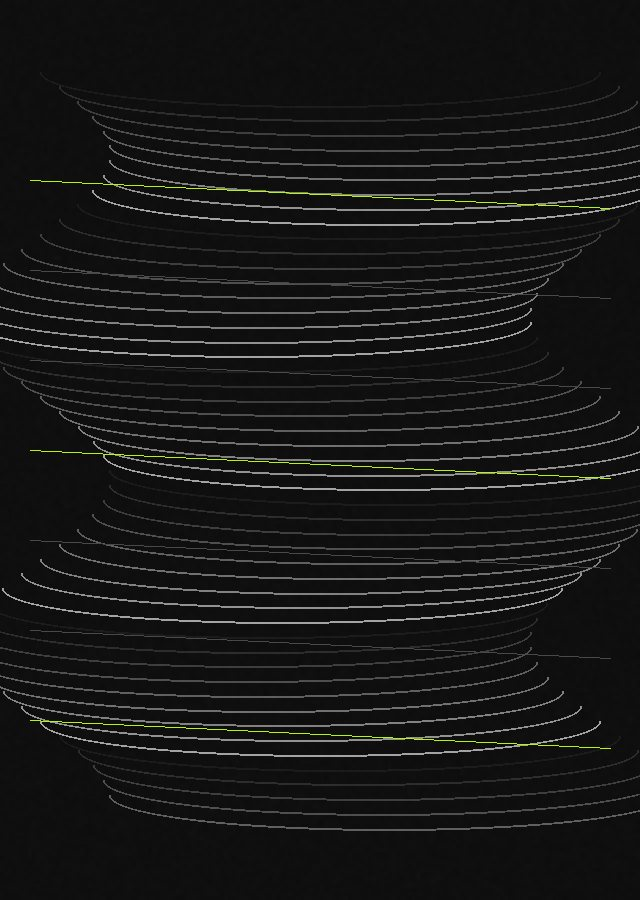
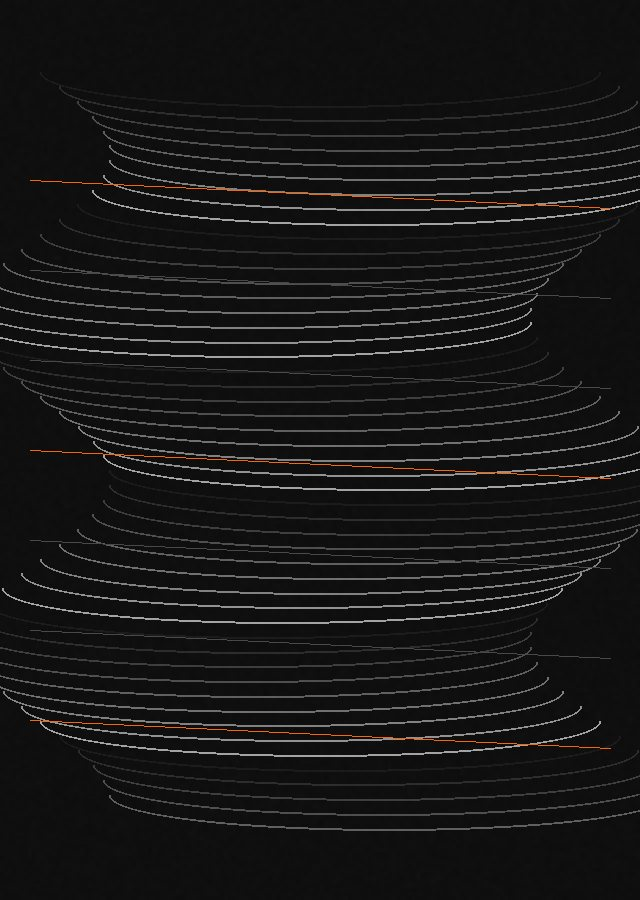
Retheme accent to #FF6600, Nirbhay Verma signature, Pages deploy
- Replace neon-lime accents and generated graphics with #FF6600
- Update portrait signature artwork to Nirbhay Verma
- Add GitHub Actions workflow to publish on every push to main

diff --git a/css/style.css b/css/style.css
@@ -11,8 +11,8 @@
   --text: #f4f4f0;
   --muted: #8c8c8c;
   --border: rgba(255, 255, 255, 0.12);
-  --accent: #b8ff00;
-  --accent-dark: #6f9900;
+  --accent: #FF6600;
+  --accent-dark: #CC5200;
 
   --font: "Space Grotesk", system-ui, sans-serif;
   --max: 1440px;
@@ -329,7 +329,7 @@ body.has-custom-cursor .cursor {
 
 .nav__dot-btn:hover {
   border-color: var(--accent);
-  box-shadow: 0 0 16px rgba(184, 255, 0, 0.15);
+  box-shadow: 0 0 16px rgba(255, 102, 0, 0.15);
 }
 
 .nav__dot-btn:hover .nav__dot-btn-inner,
@@ -443,8 +443,8 @@ body.has-custom-cursor .cursor {
 }
 
 .showreel-btn:hover {
-  background: rgba(184, 255, 0, 0.08);
-  box-shadow: 0 0 24px rgba(184, 255, 0, 0.18);
+  background: rgba(255, 102, 0, 0.08);
+  box-shadow: 0 0 24px rgba(255, 102, 0, 0.18);
 }
 
 .showreel-btn__time {
@@ -485,7 +485,7 @@ body.has-custom-cursor .cursor {
   position: absolute;
   inset: 0;
   background:
-    radial-gradient(circle at 62% 40%, rgba(184, 255, 0, 0.18), transparent 42%);
+    radial-gradient(circle at 62% 40%, rgba(255, 102, 0, 0.18), transparent 42%);
   pointer-events: none;
   mix-blend-mode: screen;
   animation: glowPulse 6s ease-in-out infinite alternate;
@@ -500,12 +500,12 @@ body.has-custom-cursor .cursor {
 .hero-visual__portal {
   width: 18%;
   aspect-ratio: 1;
-  border: 1px solid rgba(184, 255, 0, 0.35);
+  border: 1px solid rgba(255, 102, 0, 0.35);
   border-radius: 50%;
   top: 36%;
   left: 58%;
   transform: translate(-50%, -50%);
-  box-shadow: 0 0 40px rgba(184, 255, 0, 0.15);
+  box-shadow: 0 0 40px rgba(255, 102, 0, 0.15);
   animation: portalSpin 24s linear infinite;
 }
 
@@ -794,7 +794,7 @@ body.has-custom-cursor .cursor {
 .btn-outline:hover {
   color: var(--accent);
   border-color: var(--accent);
-  background: rgba(184, 255, 0, 0.04);
+  background: rgba(255, 102, 0, 0.04);
 }
 
 .btn-outline:hover .arrow {
@@ -860,7 +860,7 @@ body.has-custom-cursor .cursor {
 .timeline__item--active .timeline__marker {
   background: var(--accent);
   border-color: var(--accent);
-  box-shadow: 0 0 0 4px rgba(184, 255, 0, 0.15), 0 0 18px rgba(184, 255, 0, 0.35);
+  box-shadow: 0 0 0 4px rgba(255, 102, 0, 0.15), 0 0 18px rgba(255, 102, 0, 0.35);
 }
 
 .timeline__year {

diff --git a/index.html b/index.html
@@ -243,10 +243,9 @@
               <img
                 class="portrait__signature"
                 src="assets/images/signature.png"
-                alt=""
-                aria-hidden="true"
-                width="560"
-                height="180"
+                alt="Signature of Nirbhay Verma"
+                width="720"
+                height="200"
                 loading="lazy"
                 decoding="async"
               >
@@ -342,7 +341,7 @@
               data-cursor="image"
               aria-label="Open Dark Current"
             >
-              <img src="assets/images/gallery-04.jpg" alt="Abstract flowing dark shapes with lime accents" width="620" height="880" loading="lazy" decoding="async">
+              <img src="assets/images/gallery-04.jpg" alt="Abstract flowing dark shapes with orange accents" width="620" height="880" loading="lazy" decoding="async">
               <span class="gallery__caption">Dark Current</span>
             </button>
             <button

diff --git a/scripts/generate_placeholders.py b/scripts/generate_placeholders.py
@@ -13,7 +13,7 @@ os.makedirs(ICONS, exist_ok=True)
 os.makedirs("/workspace/assets/videos", exist_ok=True)
 random.seed(42)
 
-ACCENT = (184, 255, 0)
+ACCENT = (255, 102, 0)
 BG = (8, 8, 8)
 
 
@@ -84,7 +84,7 @@ def make_hero():
     draw = ImageDraw.Draw(img, "RGBA")
     draw.ellipse([cx - 100, cy - 100, cx + 100, cy + 100], outline=(*ACCENT, 220), width=5)
     draw.ellipse([cx - 78, cy - 78, cx + 78, cy + 78], outline=(*ACCENT, 140), width=2)
-    draw.ellipse([cx - 55, cy - 55, cx + 55, cy + 55], fill=(184, 255, 0, 55))
+    draw.ellipse([cx - 55, cy - 55, cx + 55, cy + 55], fill=(255, 102, 0, 55))
     draw.ellipse([cx - 28, cy - 28, cx + 28, cy + 28], fill=(220, 255, 140, 100))
 
     mist = Image.new("RGBA", (w, h), (0, 0, 0, 0))
@@ -124,7 +124,7 @@ def make_echoes():
     draw = ImageDraw.Draw(img, "RGBA")
     for i in range(6):
         x0 = int(w * 0.28) + i * 35
-        draw.polygon([(x0, int(h * 0.22)), (x0 + 18, int(h * 0.22)), (x0 + 70, h), (x0 + 18, h)], fill=(184, 255, 0, 14))
+        draw.polygon([(x0, int(h * 0.22)), (x0 + 18, int(h * 0.22)), (x0 + 70, h), (x0 + 18, h)], fill=(255, 102, 0, 14))
     img = film_grain(img.convert("RGB"), 18)
     img.save(f"{OUT}/project-echoes.jpg", quality=85, optimize=True)
     print("echoes")
@@ -135,7 +135,7 @@ def make_fluidity():
     img = Image.new("RGB", (w, h), (8, 6, 18))
     overlay = Image.new("RGBA", (w, h), (0, 0, 0, 0))
     d = ImageDraw.Draw(overlay)
-    colors = [(80, 40, 160, 55), (40, 80, 200, 50), (120, 60, 220, 45), (20, 30, 80, 65), (184, 255, 0, 28)]
+    colors = [(80, 40, 160, 55), (40, 80, 200, 50), (120, 60, 220, 45), (20, 30, 80, 65), (255, 102, 0, 28)]
     for i in range(35):
         cx, cy = random.randint(0, w), random.randint(0, h)
         rx, ry = random.randint(70, 260), random.randint(50, 200)
@@ -147,7 +147,7 @@ def make_fluidity():
     for wave in range(5):
         pts = [(x, int(h * 0.28 + wave * 90 + math.sin(x / 55 + wave) * 48)) for x in range(0, w, 6)]
         rd.line(pts, fill=(180, 140, 255, 100), width=3)
-        rd.line([(p[0], p[1] + 10) for p in pts], fill=(184, 255, 0, 40), width=1)
+        rd.line([(p[0], p[1] + 10) for p in pts], fill=(255, 102, 0, 40), width=1)
     img = Image.alpha_composite(img, ribbon.filter(ImageFilter.GaussianBlur(1.5)))
     img = film_grain(img.convert("RGB"), 16)
     img.save(f"{OUT}/project-fluidity.jpg", quality=85, optimize=True)
@@ -203,29 +203,70 @@ def make_portrait():
 
 
 def make_signature():
-    w, h = 560, 180
+    """Handwritten-style signature: Nirbhay Verma."""
+    w, h = 720, 200
     img = Image.new("RGBA", (w, h), (0, 0, 0, 0))
     draw = ImageDraw.Draw(img)
-    strokes = [
-        [(30, 130), (60, 35), (90, 130)],
-        [(48, 95), (75, 95)],
-        [(110, 130), (110, 65), (140, 65), (150, 85), (150, 130)],
-        [(172, 130), (172, 75)],
-        [(172, 50), (172, 45)],
-        [(195, 35), (195, 130)],
-        [(195, 95), (235, 65)],
-        [(195, 95), (240, 130)],
-        [(265, 105), (295, 85), (325, 105), (295, 125), (265, 105)],
-        [(345, 45), (345, 130), (375, 130)],
-        [(330, 70), (365, 70)],
-        [(390, 115), (450, 85), (510, 125), (540, 75)],
-    ]
-    for stroke in strokes:
-        if len(stroke) == 2 and abs(stroke[0][0] - stroke[1][0]) < 2 and abs(stroke[0][1] - stroke[1][1]) < 8:
-            x, y = stroke[0]
-            draw.ellipse([x - 3, y - 3, x + 3, y + 3], fill=(*ACCENT, 255))
-        else:
-            draw.line(stroke, fill=(*ACCENT, 255), width=3, joint="curve")
+
+    # Prefer a script-like font when available
+    font = None
+    for path in (
+        "/usr/share/fonts/truetype/dejavu/DejaVuSans-Oblique.ttf",
+        "/usr/share/fonts/truetype/liberation/LiberationSerif-Italic.ttf",
+        "/usr/share/fonts/truetype/freefont/FreeSerifItalic.ttf",
+    ):
+        if os.path.exists(path):
+            try:
+                font = ImageFont.truetype(path, 64)
+                break
+            except OSError:
+                continue
+
+    if font is not None:
+        # Soft under-glow then crisp stroke text
+        for ox, oy, a in ((2, 2, 80), (0, 0, 255)):
+            draw.text((28 + ox, 70 + oy), "Nirbhay Verma", font=font, fill=(*ACCENT, a))
+        # Flourish underline
+        draw.line([(40, 155), (200, 168), (420, 150), (620, 162)], fill=(*ACCENT, 220), width=2, joint="curve")
+        draw.line([(620, 162), (680, 130)], fill=(*ACCENT, 200), width=2)
+    else:
+        # Fallback stroke approximation of "Nirbhay Verma"
+        strokes = [
+            # N
+            [(30, 140), (30, 50), (70, 140), (70, 50)],
+            # i
+            [(95, 140), (95, 80)],
+            [(95, 55), (95, 50)],
+            # r
+            [(120, 140), (120, 80), (155, 75)],
+            # b
+            [(175, 40), (175, 140), (210, 140), (220, 110), (210, 80), (175, 80)],
+            # h
+            [(245, 40), (245, 140)],
+            [(245, 85), (280, 80), (290, 110), (290, 140)],
+            # a
+            [(315, 110), (345, 80), (375, 110), (345, 140), (315, 110)],
+            # y
+            [(400, 80), (430, 140)],
+            [(460, 80), (420, 160), (400, 175)],
+            # V
+            [(500, 70), (530, 145), (560, 70)],
+            # e
+            [(580, 110), (610, 85), (640, 110), (610, 135), (580, 110)],
+            # r
+            [(655, 140), (655, 90), (685, 85)],
+            # m
+            [(700, 140), (700, 90), (720, 90), (730, 120), (730, 140)],
+            # a (second - squeezed: use flourish instead)
+            [(40, 165), (280, 175), (520, 160), (690, 120)],
+        ]
+        for stroke in strokes:
+            if len(stroke) == 2 and abs(stroke[0][0] - stroke[1][0]) < 2 and abs(stroke[0][1] - stroke[1][1]) < 8:
+                x, y = stroke[0]
+                draw.ellipse([x - 3, y - 3, x + 3, y + 3], fill=(*ACCENT, 255))
+            else:
+                draw.line(stroke, fill=(*ACCENT, 255), width=3, joint="curve")
+
     img.save(f"{OUT}/signature.png", optimize=True)
     print("signature")
 
@@ -310,21 +351,21 @@ def make_icons():
     with open(f"{ICONS}/play.svg", "w") as f:
         f.write(
             '<svg xmlns="http://www.w3.org/2000/svg" viewBox="0 0 24 24" fill="none">'
-            '<circle cx="12" cy="12" r="11" stroke="#b8ff00" stroke-width="1"/>'
-            '<path d="M10 8l6 4-6 4V8z" fill="#b8ff00"/>'
+            '<circle cx="12" cy="12" r="11" stroke="#FF6600" stroke-width="1"/>'
+            '<path d="M10 8l6 4-6 4V8z" fill="#FF6600"/>'
             "</svg>\n"
         )
     with open(f"{ICONS}/star.svg", "w") as f:
         f.write(
             '<svg xmlns="http://www.w3.org/2000/svg" viewBox="0 0 64 64" fill="none">'
-            '<path d="M32 4 L36 28 L60 32 L36 36 L32 60 L28 36 L4 32 L28 28 Z" fill="#b8ff00"/>'
+            '<path d="M32 4 L36 28 L60 32 L36 36 L32 60 L28 36 L4 32 L28 28 Z" fill="#FF6600"/>'
             "</svg>\n"
         )
     with open(f"{ICONS}/location.svg", "w") as f:
         f.write(
             '<svg xmlns="http://www.w3.org/2000/svg" viewBox="0 0 24 24" fill="none">'
-            '<path d="M12 2C8.1 2 5 5.1 5 9c0 5.2 7 13 7 13s7-7.8 7-13c0-3.9-3.1-7-7-7z" stroke="#b8ff00" stroke-width="1.5"/>'
-            '<circle cx="12" cy="9" r="2.5" fill="#b8ff00"/>'
+            '<path d="M12 2C8.1 2 5 5.1 5 9c0 5.2 7 13 7 13s7-7.8 7-13c0-3.9-3.1-7-7-7z" stroke="#FF6600" stroke-width="1.5"/>'
+            '<circle cx="12" cy="9" r="2.5" fill="#FF6600"/>'
             "</svg>\n"
         )
     open("/workspace/assets/videos/.gitkeep", "w").close()

diff --git a/README.md b/README.md
@@ -1,15 +1,35 @@
-# Aniket Vyas — Motion Graphics Portfolio
+# Motion Graphics Artist Portfolio
 
-Premium single-page portfolio for a Graphic Visualizer / Motion Graphics Artist.
+Premium single-page portfolio. Open `index.html` locally, or view the published site after GitHub Pages deploys.
+
+## Live site
+
+Target production URL: **https://white-fox-creations.github.io**
+
+Every push to `main` triggers GitHub Actions (`.github/workflows/deploy-pages.yml`) and republishes the site.
+
+### One-time GitHub setup for `white-fox-creations.github.io`
+
+1. Create a GitHub user or organization named **`white-fox-creations`**.
+2. Create a repository named exactly **`white-fox-creations.github.io`** (this name is required for that URL).
+3. Push this project’s `main` branch to that repository.
+4. In the repo: **Settings → Pages → Build and deployment → Source: GitHub Actions**.
+5. Confirm the Actions workflow `Deploy GitHub Pages` runs successfully.
+
+Until that org/repo exists, merging to `main` on this repo can still publish to:
+
+`https://itsumeet27.github.io/motion-graphics-artist-portfolio/`
+
+(after enabling Pages with the GitHub Actions source on this repository).
 
 ## Run locally
-
-Open `index.html` directly in a browser — no build step required.
 
 ```bash
 # optional local server
 python3 -m http.server 8080
 ```
+
+Open `http://localhost:8080`.
 
 ## Structure
 
@@ -24,6 +44,7 @@ js/cursor.js
 assets/images/
 assets/videos/
 assets/icons/
+.github/workflows/deploy-pages.yml
 ```
 
 ## Replace assets
@@ -33,3 +54,5 @@ assets/icons/
 - Gallery: `assets/images/gallery-0*.jpg`
 - Portrait / signature: `assets/images/portrait.jpg`, `signature.png`
 - Showreel: `assets/videos/showreel.mp4`
+
+Accent color: `#FF6600`
